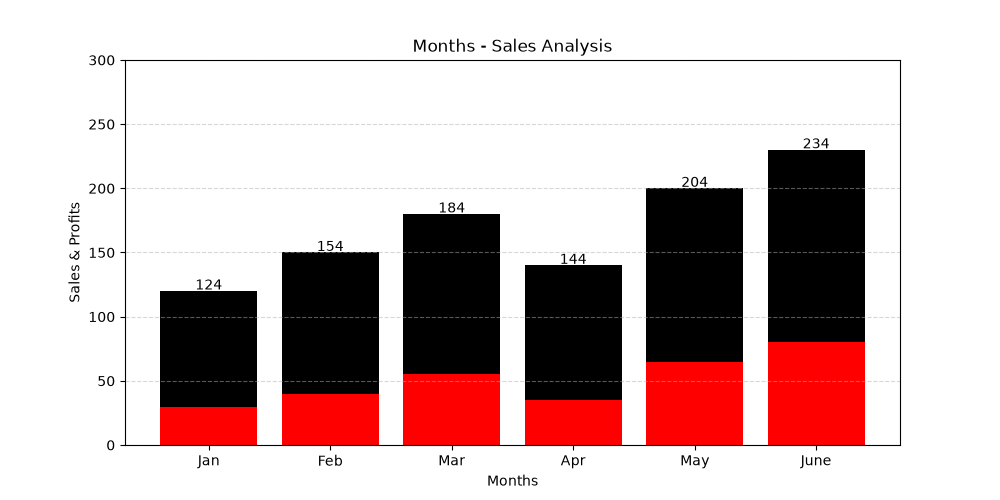
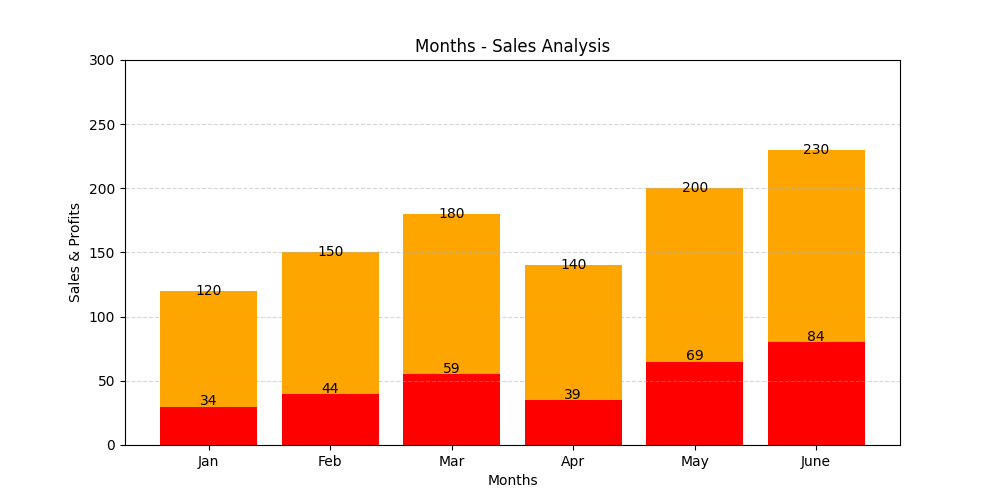
code

diff --git a/python/06-graphs.py b/python/06-graphs.py
@@ -65,7 +65,7 @@
 
 # plt.figure(figsize=(10,5))
 
-# bars = plt.bar(months,sales,color="black")
+# bars = plt.bar(months,sales,color="orange")
 # bars1 = plt.bar(months,profits,color="red")
 
 # plt.xlabel("Months")
@@ -76,7 +76,7 @@
 # plt.grid(axis="y",linestyle="--",alpha=0.5)
 
 # for bar in bars:
-#     value = bar.get_height() + 4
+#     value = bar.get_height()
 #     plt.text(bar.get_x() + (bar.get_width()/2) , value, str(value), ha="center",va="center")
 
 
@@ -128,7 +128,7 @@
 # plt.savefig("histo.png")
 # plt.show()
 
-# Subplots
+# # Subplots
 # import matplotlib.pyplot as plt
 
 # plt.subplot(2,2,1)
@@ -142,6 +142,13 @@
 # plt.xlabel("Months")
 # plt.ylabel("Sales")
 # plt.title("Bar Chart")
+
+
+# plt.subplot(2,2,3)
+# #histo
+
+# plt.subplot(2,2,4)
+# #line plot
 
 # plt.tight_layout()
 # plt.savefig("sub.png")
@@ -162,7 +169,7 @@
 # plt.show()
 
 
-#box-plot (analysis 1st quarter, half year, 3rd querter,.....)
+# box-plot (analysis 1st quarter, half year, 3rd querter,.....)
 # import matplotlib.pyplot as plt
 
 # python_marks = [45,50,52,55,58,60,65,68,70,72]
@@ -180,18 +187,18 @@
 
 # heatmap
 # python std1 - 90(dark green). std2 - 60(green). std3 - 40(light green)
-# import matplotlib.pyplot as plt
-# students = ["Std1","Std2","Std3","Std4"]
-# subjects = ["Python","Java","SQL","React"]
-# marks = [[80,70,85,75],
-#          [90,85,88,92],
-#          [60,65,70,68],
-#          [85,90,92,88]]
-# plt.imshow(marks,cmap="viridis")        # viridis, plasma,magma, cividis,coolwarm,
-# plt.xticks(range(len(subjects)),subjects)
-# plt.yticks(range(len(students)),students)
-# plt.colorbar(label="marks")
-# plt.title("Marks Distribution")
-# plt.savefig("heat.png")
-# plt.show()
+import matplotlib.pyplot as plt
+students = ["Std1","Std2","Std3","Std4"]
+subjects = ["Python","Java","SQL","React"]
+marks = [[80,70,85,75],
+         [90,85,88,92],
+         [60,65,70,68],
+         [85,90,92,88]]
+plt.imshow(marks,cmap="viridis")        # viridis, plasma,magma, cividis,coolwarm,
+plt.xticks(range(len(subjects)),subjects)
+plt.yticks(range(len(students)),students)
+plt.colorbar(label="marks")
+plt.title("Marks Distribution")
+plt.savefig("heat.png")
+plt.show()
 
